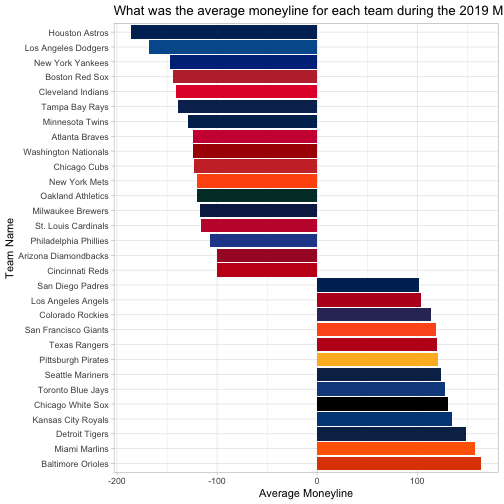
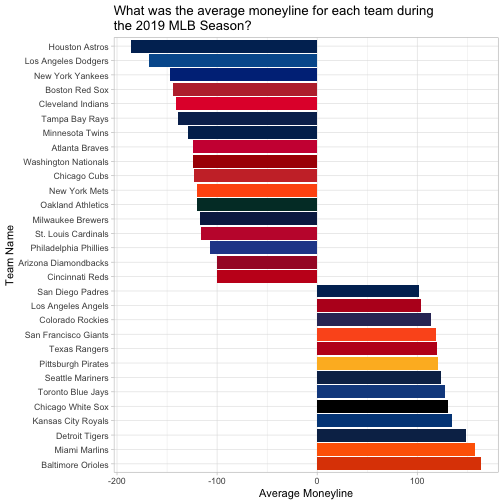
Test image.

Changed region(s): [[0.0, 0.0298, 0.9226, 0.9524], [0.8631, 0.0, 1.0, 0.0298]]

diff --git a/README.md b/README.md
@@ -51,7 +51,7 @@ avg_2019_mlb_ml <- rbind(away_team_lines, home_team_lines) %>%
          primary = fct_reorder(primary, avg_ml_line, .desc = TRUE))
 
 # Generate moneyline bar chart
-mlb_2019_ml_chart <- avg_2019_mlb_ml %>%
+avg_2019_mlb_ml %>%
   ggplot(aes(x = team, y = avg_ml_line, label = avg_ml_line)) +
   geom_col(fill = avg_2019_mlb_ml$primary) +
   coord_flip() +
@@ -60,10 +60,10 @@ mlb_2019_ml_chart <- avg_2019_mlb_ml %>%
        title = "What was the average moneyline for each team during\nthe 2019 MLB Season?")
 ```
 
-![2019 Average MLB Moneylines](mlb_2019_ml_chart.jpg)
-
+<img src="man/figures/README-unnamed-chunk-2-1.png" title="plot of chunk unnamed-chunk-2" alt="plot of chunk unnamed-chunk-2" width="400px" />
 
 ```r
+
 # What is the average O/U movement for games in which there was line movement?
 mlb_odds_2019 %>%
   mutate(ou_movement = close_ou_line - open_ou_line) %>%
